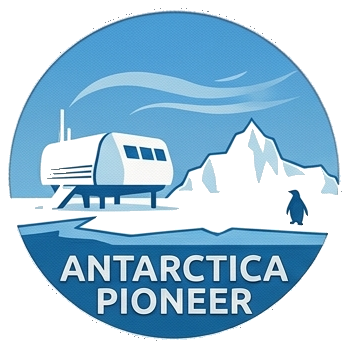
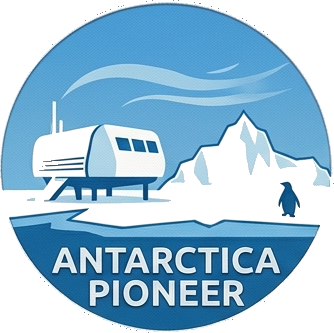
fix+ui: 徽章重抠图/排序/弹窗光晕底座 + 明信片限尺寸 + 星迹顶部点亮入口
- 徽章重抠：6 枚大洲英文版改圆形遮罩（补全 Star of Asia/Europe Roamer 底部）；里程碑收紧半径去掉 First Light/Desert Pioneer 外圈虚边；全部从 git 历史恢复源图重切
- 徽章详情弹窗：光晕由整圈罩改为徽章底部椭圆基座
- 徽章墙排序：已点亮在前 → 进行中按进度降序 → 完全未解锁在后
- 明信片预览卡限宽（竖 300/横 345）并居中，修上轮「整页变形、图特别大」
- 星迹页顶部加「点亮新足迹」icon 入口（空状态也有）→ CaptureView
- ACCEPTANCE 更新

Claude-Session: https://claude.ai/code/session_01ADQZ9YNKyY6hanNk7jFSQ6

Changed region(s): [[0.0, 0.0, 1.0, 1.0], [0.5689, 0.4204, 0.6587, 0.5706], [0.509, 0.4805, 0.5389, 0.5405]]

diff --git a/Lumi/Features/Stats/StatsView.swift b/Lumi/Features/Stats/StatsView.swift
@@ -157,11 +157,28 @@ struct StatsView: View {
     private var honeycomb: some View {
         let cols = Array(repeating: GridItem(.flexible(), spacing: 14), count: 3)
         return LazyVGrid(columns: cols, spacing: 18) {
-            ForEach(board.badges) { b in badgeCell(b) }
+            ForEach(sortedBadges) { b in badgeCell(b) }
         }
         .frame(maxWidth: .infinity)
         .padding(.horizontal, 22)
         .padding(.vertical, 12)
+    }
+
+    /// 排序：已点亮在最前 → 进行中按点亮进度从高到低 → 完全未解锁在最后；同档保持原顺序。
+    private var sortedBadges: [Badge] {
+        func rank(_ b: Badge) -> Double {
+            switch b.state {
+            case .lit:    return 100                 // 已点亮最前
+            case .prog:   return b.progress ?? 0     // 进行中按进度 0…1
+            case .locked: return -1                  // 完全未解锁最后
+            }
+        }
+        return board.badges.enumerated()
+            .sorted { a, b in
+                let ra = rank(a.element), rb = rank(b.element)
+                return ra != rb ? ra > rb : a.offset < b.offset
+            }
+            .map(\.element)
     }
 
     /// 单元：徽章 + 名称。点击看「是什么 / 怎么得到」。插画徽章自带名字，不再重复文字。
@@ -267,13 +284,14 @@ private struct BadgeSheet: View {
             VStack(spacing: 0) {
                 Capsule().fill(Color.line).frame(width: 40, height: 4).padding(.top, 11)
 
-                // ——— 主角：放大的徽章 + 光晕基座，突出收集感 ———
-                ZStack {
-                    Circle()
-                        .fill(RadialGradient(colors: [badge.color.opacity(badge.state == .lit ? 0.55 : 0.22), .clear],
-                                             center: .center, startRadius: 4, endRadius: 160))
-                        .frame(width: 320, height: 320)
-                        .blur(radius: 6)
+                // ——— 主角：放大的徽章，光晕只作底部基座（不再整圈罩在大图上）———
+                ZStack(alignment: .bottom) {
+                    Ellipse()
+                        .fill(RadialGradient(colors: [badge.color.opacity(badge.state == .lit ? 0.6 : 0.2), .clear],
+                                             center: .center, startRadius: 2, endRadius: 130))
+                        .frame(width: 250, height: 100)
+                        .blur(radius: 24)
+                        .offset(y: -6)
                     HolographicBadge(badge: badge, size: 200)
                 }
                 .frame(height: 290)

diff --git a/Lumi/Features/Timeline/TimelineView.swift b/Lumi/Features/Timeline/TimelineView.swift
@@ -13,6 +13,7 @@ struct TimelineView: View {
     @State private var regionFilter: RegionFilter = .all
     @State private var pendingDelete: Footprint?
     @State private var showImport = false
+    @State private var showCapture = false
 
     private enum RegionFilter: Hashable { case all, region(Region) }
 
@@ -36,6 +37,21 @@ struct TimelineView: View {
         .sheet(isPresented: $showImport) {
             PhotoImportView(existing: footprints)
         }
+        .sheet(isPresented: $showCapture) {
+            CaptureView(source: "timeline", prefilledCoordinate: nil)
+        }
+    }
+
+    /// 顶部「点亮新足迹」入口（icon 形式）。
+    private var newFootprintButton: some View {
+        Button { showCapture = true } label: {
+            Image(systemName: "plus")
+                .font(.system(size: 17, weight: .bold)).foregroundStyle(.white)
+                .frame(width: 38, height: 38)
+                .background(LinearGradient.neonH, in: Circle())
+                .shadow(color: Color.nPurple.opacity(0.5), radius: 8)
+        }
+        .accessibilityLabel(Text("点亮新足迹"))
     }
 
     /// 从相册同步历史足迹的入口按钮（顶部用）。
@@ -75,7 +91,10 @@ struct TimelineView: View {
                 Text(statLine).font(.system(size: 11)).tracking(1.2).foregroundStyle(Color.faint)
             }
             Spacer()
-            importButton
+            HStack(spacing: 10) {
+                importButton
+                newFootprintButton
+            }
         }
         .padding(.horizontal, 26).padding(.top, 16)
     }
@@ -149,6 +168,14 @@ struct TimelineView: View {
                     .shadow(color: Color.nPurple.opacity(0.5), radius: 12)
             }
             .padding(.top, 6)
+
+            Button { showCapture = true } label: {
+                Label("点亮新足迹", systemImage: "plus")
+                    .font(.system(size: 14, weight: .semibold)).foregroundStyle(Color.nPink)
+                    .padding(.vertical, 10).padding(.horizontal, 18)
+                    .background(Color.panel, in: Capsule())
+                    .overlay(Capsule().stroke(Color.nPink.opacity(0.4), lineWidth: 1))
+            }
         }
         .frame(maxWidth: .infinity, maxHeight: .infinity)
     }

diff --git a/Lumi/Features/Share/PostcardStyleKit.swift b/Lumi/Features/Share/PostcardStyleKit.swift
@@ -169,6 +169,9 @@ struct PostcardFlipCard: View {
             back.opacity(flipped ? 1 : 0).rotation3DEffect(.degrees(180), axis: (x: 0, y: 1, z: 0))
         }
         .aspectRatio(isPortrait ? 0.66 : 1.55, contentMode: .fit)
+        // 限制在一屏内：竖版更窄(≤300)、横版≤345，避免预览卡撑满屏
+        .frame(maxWidth: isPortrait ? 300 : 345)
+        .frame(maxWidth: .infinity)
         .rotation3DEffect(.degrees(flipped ? 180 : 0), axis: (x: 0, y: 1, z: 0))
         .animation(.easeInOut(duration: 0.6), value: flipped)
         .shadow(color: .black.opacity(0.45), radius: 16, y: 8)

diff --git a/docs/ACCEPTANCE.md b/docs/ACCEPTANCE.md
@@ -2,73 +2,52 @@
 
 > Mac 上 **Clean Build（⇧⌘K）→ 删旧 App → 重装** 再逐项过。
 > 勾 `[x]` 通过；不过就在该行后写「✗ + 现象」。🔴=重点。最后更新 2026-06-27。
-> 已通过的条目已从本清单移除，仅保留「本批已修复待复验」与「尚未验收」两类。
+> 已通过条目随时移除，仅保留「本批已修复待复验」与「尚未验收」两类。
 
 ---
 
 ## 🔧 本批已修复 · 待你复验
 
-> 这些是你上轮标 ✗ 的问题，已改完，重点复验。
+### D. 明信片预览卡尺寸（上轮 ✗：整页变形、图特别大）
+- [ ] 上传**竖图**：明信片预览竖版，但宽度限制 ≤300，整张在一屏内不变形
+- [ ] 上传**横图**：横版，宽度限制 ≤345，不再撑满屏
+- 改动：`PostcardFlipCard` 加 `maxWidth`（竖 300 / 横 345）并居中。
 
-### A. 🔴 中文系统显示英文（语言根因）
-- [x] 系统中文 → App **全中文**（界面 + 小组件）；英文系统 → 全英文；阿语 → 阿语 RTL；其余 → 英文
-- 改动：字符串目录之前只写了 `en`/`ar`，**缺源语言 `zh-Hans` 显式值**，`developmentRegion=en` 时中文系统找不到中文资源就回退英文。现已给**每条**补上显式 `zh-Hans`（app + 小组件两个目录）。
-- ⚠ 若清装后中文系统仍显示英文 → 记下来，需我从构建层再查（可能 zh-Hans.lproj 未随包）。
+### G. 徽章重新抠图（边缘不全 / 发虚）
+- [ ] **Star of Asia / Europe Roamer**：底部完整（之前缺底）
+- [ ] **First Light / Desert Pioneer**：边缘清晰（之前发虚有外圈光晕残留）
+- [ ] 其余 10 枚仍完整、透明底、无残留
+- 改动：6 枚大洲英文版改用圆形遮罩（按连通域中心/半径）抠；里程碑收紧半径去掉外圈虚边。
 
-### B. 🔴 阿语下「星迹」新增页时间显示中文「开始/结束」
-- [x] 阿语系统：新增足迹页日期行显示阿语「البداية / النهاية」，不再是中文
-- 改动：`CaptureView` / `FootprintEditView` 的 `dateRow` 标签参数是 `String`（逐字显示），改为 `LocalizedStringKey`（走本地化）。
+### H. 徽章详情弹窗光晕
+- [ ] 大图上**不再整圈罩光晕**；光晕只作**徽章底部基座**（像放在发光台面上）
+- 改动：把居中的圆形光晕改为底部椭圆光晕。
 
-### C. 设置页「语言」跳转
-- [x] 点「语言跟随系统」→ 跳到 iOS「设置 › Lumi」页，**该页出现「首选语言」选项**可单独设
-- 说明：`openSettingsURLString` 只能跳到本 App 的系统设置页（iOS 不允许直达语言子页），这是系统行为。**「首选语言」选项需 App 带多套本地化才会出现**——依赖上面 A 的 zh-Hans 修复，复验时一并确认该选项是否出现。
+### I. 徽章排序
+- [ ] **已点亮**的徽章排在**最前**；其次**进行中按点亮进度从高到低**；**完全未解锁**排最后
+- 改动：徽章墙网格按 `lit → prog(progress 降序) → locked` 排序，同档保持原顺序。
 
-### D. 明信片正面：竖图支持
-- [ ] 上传**竖图**时，明信片预览转为**竖版**（不再把竖图裁成横条丢内容） 「✗ + 整个明信片创建页面都变形了，图片竖版的特别大，需要限制一个屏幕内的尺寸e.g. 345px 之类的」
-- [x] 竖版**背面**：上＝国家/地名 + 寄语，下＝邮票/邮戳 + 寄给
-- [ ] 上传横图时仍是横版（原样）「✗ + 整个明信片创建页面都变形了，图片横版也特别大，需要限制一个屏幕内的尺寸e.g. 345px 之类的」
-- 改动：`PostcardFlipCard` 检测封面高>宽 → 卡片比例转竖版 + 新增竖版背面布局。
-
-### E. 星迹详情统计格子被长地区名撑高
-- [x] 详情页「照片 / 地区 / 国家」三格**固定高度**，长地区名（如阿语）不再把格子拉高
-- [x] 「照片」「国家」格变窄，中间「地区」格更宽
-- 改动：`statRow` 固定行高 62、两侧格固定窄宽、地区名 `lineLimit(1)+minimumScaleFactor`。
-
-### F. 设置页「反馈与建议」不暴露邮箱
-- [x] App 内**不显示**收件邮箱；点一下唤起邮件草稿时才预填收件人/主题
-- 改动：副标题由邮箱地址改为「点这里发邮件给我们」，邮箱只在 `mailto:` 里。
+### J. 星迹页顶部「点亮新足迹」入口
+- [ ] 星迹页顶部出现**「+」icon**（霓虹圆钮，在「从相册同步」旁）→ 点开进入点亮录入页
+- [ ] 空状态（还没有星迹）也有「点亮新足迹」入口
+- 改动：`TimelineView` header 加 icon 按钮 → `CaptureView`。
 
 ---
 
 ## ⏳ 尚未验收（之前未勾选，留着一起过）
 
 ### 明信片
-- [ ] 「寄给」下方出现**往来联系人**快选 chips（收/发过的人）；点一下填入 
+- [ ] 「寄给」下方出现**往来联系人**快选 chips（收/发过的人）；点一下填入
 - [ ] 明信片墙顶部「往来的人」头像横条；收到的卡按样式呈现
-- [x] 免费态导出带 Lumi 水印；Plus 去水印（见下「Plus」）
 
 ### 护照本
 - [ ] 资料页信息**更大**、占比舒服（姓名/国籍/签发 + N 国已点亮 + 国家码 + MRZ）
-- [x] 入境章页盖章、点章弹详情浮层（盖章动效 + 信息卡）
 
 ### Lumi Plus / Paywall
-- [x] 设置页「升级 Lumi Plus」**整行任意位置**点击都能弹 paywall（含中间空白）
 - [ ] paywall 三档价格（月/年/终身）显示；购买后明信片去水印高清；杀进程重开仍 Plus；恢复购买可用
 
-### 英文/阿语界面文案（本批已改，待在对应语言下确认）
-- [x] 英文系统：设置页小组件预览卡（Lit Stats / 12 countries lit / A year ago…）全英文
-- [x] 英文系统：星迹卡角标 `Latest`（阿语 `الأحدث`）
-- [x] 英文系统：心愿单大卡 推荐地点/最佳季节/简述全英文；阿语为阿语且 RTL 正常
-- [x] 默认昵称为空时：护照资料页姓名回退 `Traveler`（中 `旅行者`、阿 `مسافر`）
-
-### 徽章（插画 + 详情弹窗 + 汇总）
-- [x] 插画徽章不再额外显示中文名标签（名字已印图上）；点开详情仍有名称/稀有度/条件
-- [x] 里程碑/其它徽章已插画化（初次点亮/五国纵横/百城斩/制霸七大洲/大漠先锋/丛林探索者/跳岛狂人/极寒先锋）；**仅「环球旅行家」暂为水晶徽章**
-- [x] 大洲徽章英文系统显示圆形英文版（STAR OF ASIA 等）；中/阿回退双语底图
-- [x] 所有插画徽章透明底、无棋盘格/灰底残留、未解锁置灰、点亮流光贴轮廓
+### 徽章
 - [ ] **多枚同时解锁**：只弹一个汇总弹窗「点亮了 N 个徽章」，多枚拼在一起，**不显示单个名字**；单枚仍为大图+名称+分享
-- [x] 徽章详情弹窗：**徽章放大为主角**（~200pt + 光晕），名称/稀有度居中；描述/数据为次要（更小更安静）
-- [x] 弹窗操作：「置顶」+「分享」一排小按钮；未解锁不显示操作行
 - [ ] 徽章插画语言：中→中文版、英→英文版、阿→阿语版；缺某语言回退底图（不空白）
 
 ---
